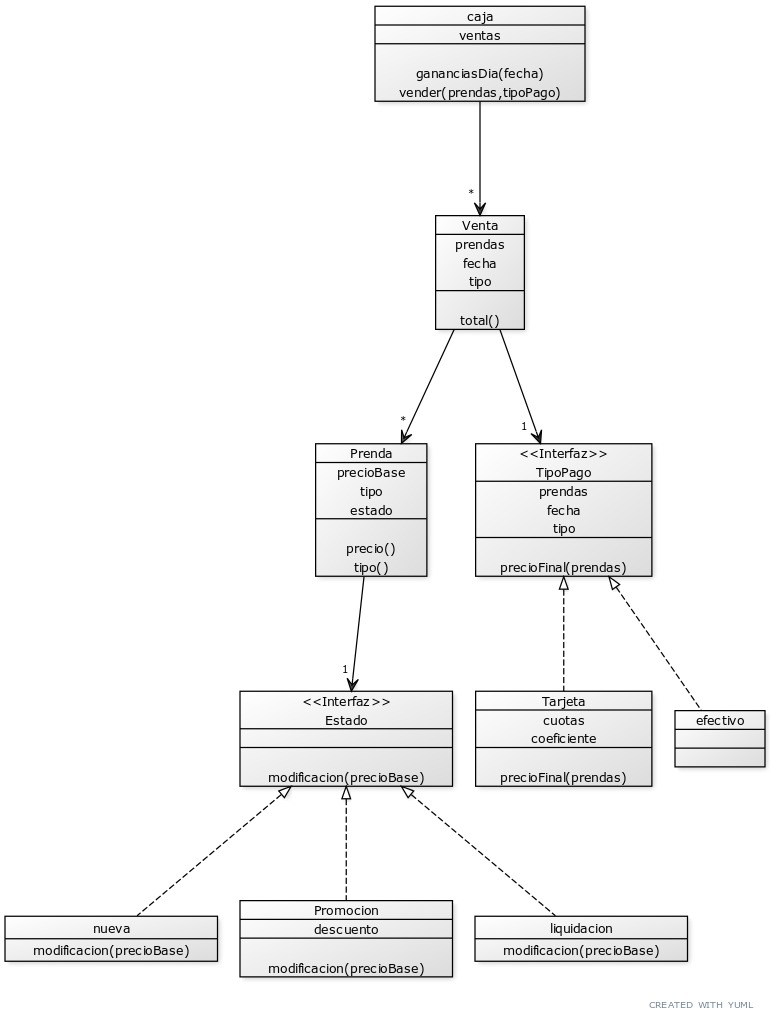
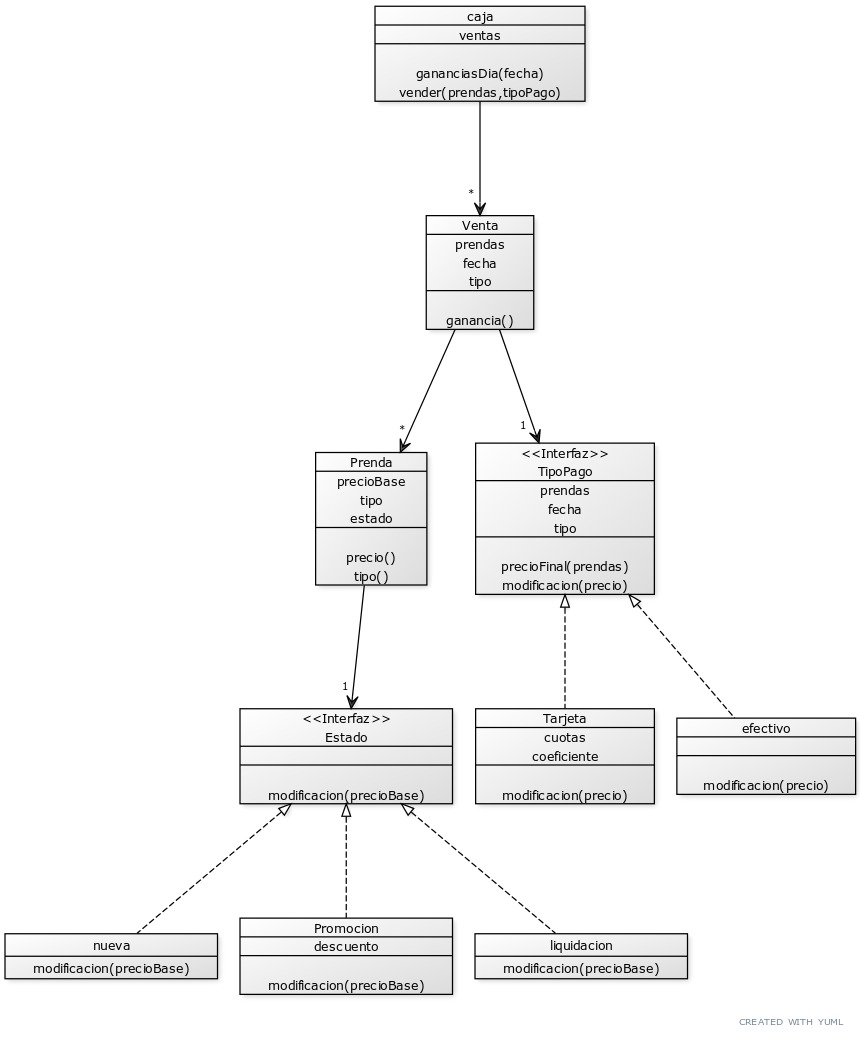
refactor tipo de pagos

diff --git a/README.md b/README.md
@@ -1,12 +1,10 @@
 # Macowins
+### Diagrama de clases
+!(diagrama de clases)[dc.jpg]
 ### Justificaciones
 #### Tipos de prenda como strings
 Podrian haber sido objetos, pero al no tener ninguna otra reposonsabilidad no me parecia que mostrar un texto lo justifijase.
 #### Estado de prenda por composicion
 Todavia no es un problema, pero con herencia podria terminar teniendo que hacer combinaciones.
-#### efectivo hereda de TipoPago pero no agrega nada
-Esto es de lo que menos seguro estoy. No sentia que fuera correcto que Tarjeta heredara de efectivo por dos motivos: 
-- queria que efectivo fuese un wko, y principalmente 
-- semanticamente efectivo no es mas "general" que tarjeta. 
 #### tipo de pago con composicion
 Esto es porque me facilitaba contruir el objeto venta (cuando se realiza la venta en caja).
